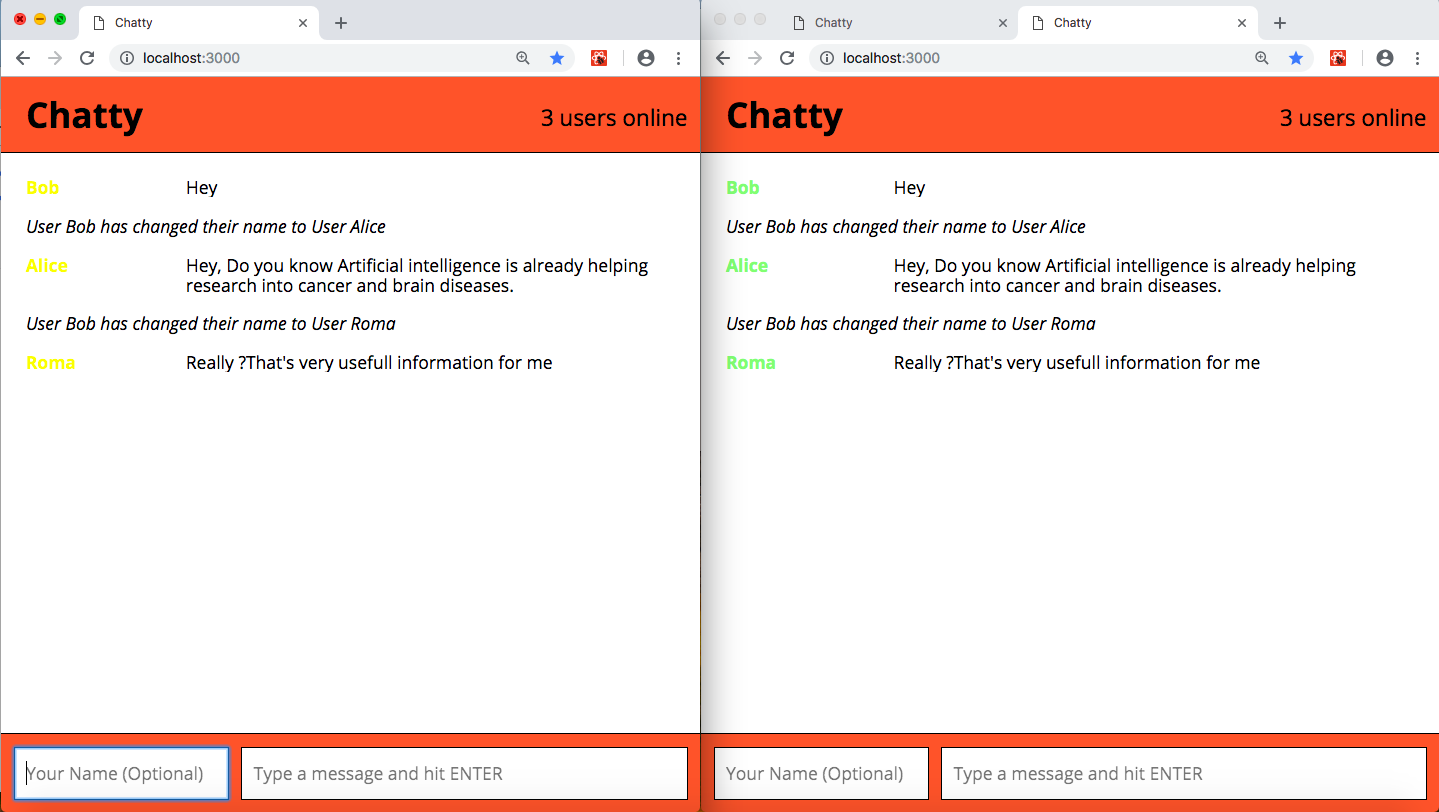
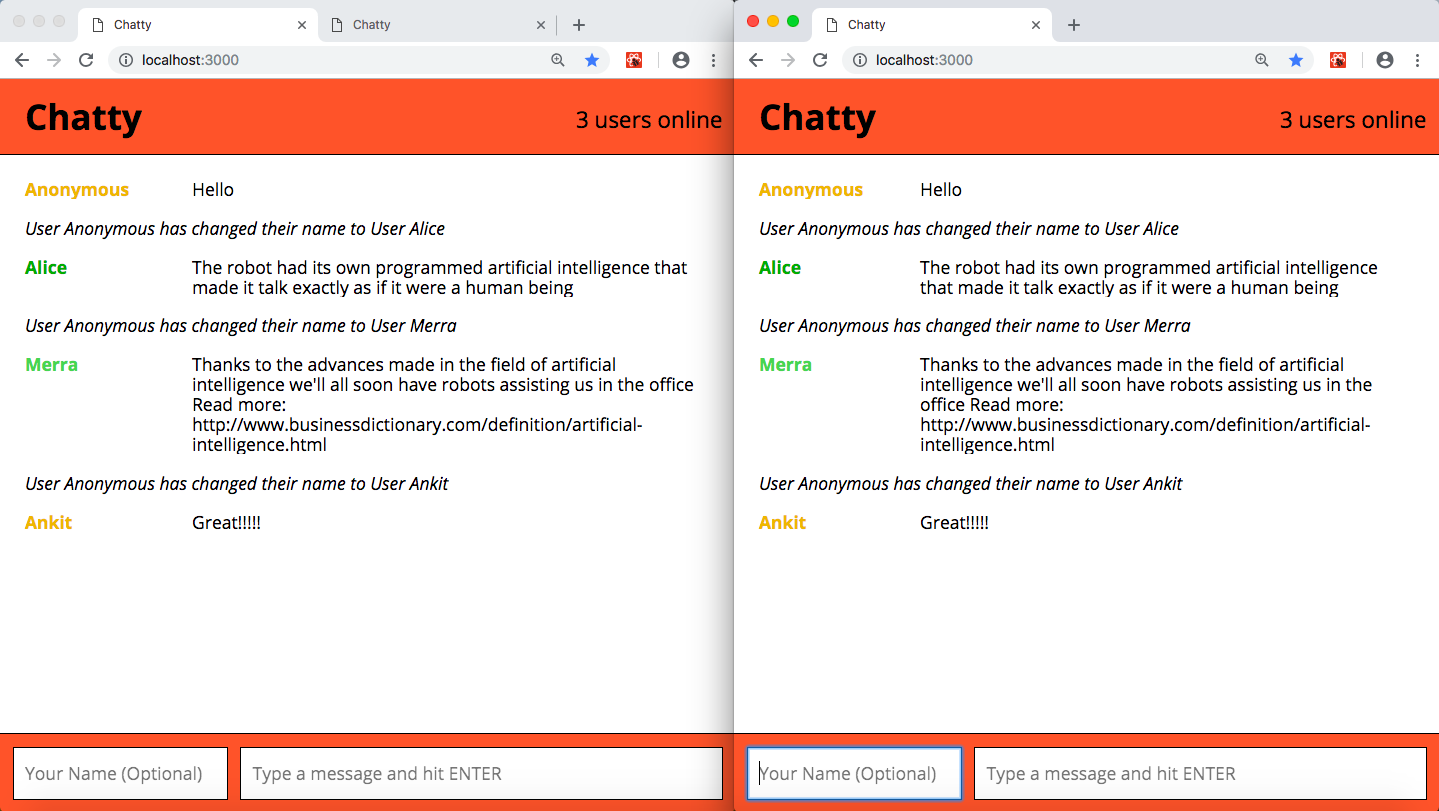
function changed for assign color to each user

Changed region(s): [[0.0, 0.0, 1.0, 1.0], [0.0, 0.5857, 0.3058, 0.6473], [0.0, 0.0, 0.0917, 0.0308]]

diff --git a/src/App.jsx b/src/App.jsx
@@ -7,8 +7,7 @@ class App extends Component {
   constructor(props) {
     super(props);
     this.state = {
-      currentUser: {name:'Bob'},
-      color:'null',
+      currentUser: {name:'Anonymous',color: '#' + Math.floor(Math.random()*16777215).toString(16)},
       messages: [], // messages coming from the server will be stored here as they arrive
       activeUsers: {}
     };
@@ -42,29 +41,26 @@ class App extends Component {
           const notifications = this.state.messages.concat(incomingNotification);
           this.setState({messages:notifications});
           break;
-        case 'color':
-          // Handles color for every user
-          this.setState({color:data.color});
-          break;
         default:
           throw new Error('Unknown event type ' + data.type);
        }
      }
   }
  onNewMessage(msg) {
-   let newMessage = {type:'postMessage',username: msg.username,content: msg.content};
+   let newMessage = {type:'postMessage',color:this.state.currentUser.color,username: msg.username,content: msg.content};
+   // this.setState(newMessage);
    this.socket.send(JSON.stringify(newMessage));
   }
   onNewUser(username) {
-    const notification = {type:'postNotification',content:'User ' + this.state.currentUser.name + ' has changed their name to User ' + username}
+    const notification = {type:'postNotification',color: this.state.currentUser.color,content:'User ' + this.state.currentUser.name + ' has changed their name to User ' + username}
     this.socket.send(JSON.stringify(notification));
-    this.setState({currentUser: {name: username}});
+    this.setState({currentUser: {name: username, color: this.state.currentUser.color }});
   }
   render() {
       return (
         <div>
           <Navbar activeUsers = {this.state.activeUsers} />
-          <MessageList messages={this.state.messages} color = {this.state.color} />
+          <MessageList messages={this.state.messages} />
           <ChatBar currentUser={this.state.currentUser.name}
                   onNewMessage = {this.onNewMessage}
                   onNewUser = {this.onNewUser}/>

diff --git a/chatty_server/server.js b/chatty_server/server.js
@@ -11,7 +11,6 @@ const server = express()
 // Create the WebSockets server
 const wss = new SocketServer({ server });
 let sharedMessage = '';
-let arraycolor = ['#a3fd7f', '#FFFF00', '#800000', '#2980B9'];
 
 wss.broadcast = function broadcast(data) {
   wss.clients.forEach(function each(client) {
@@ -21,14 +20,6 @@ wss.broadcast = function broadcast(data) {
    }
 wss.on('connection', (ws) => {
   console.log('Client connected');
-  let newColor = arraycolor.pop();
-
-  if(!newColor) {
-    arraycolor = ['#a3fd7f', '#FFFF00', '#800000', '#2980B9'];
-    newColor=arraycolor.pop();
-  }
-  const color = {type:'color', color : newColor};
-  ws.send(JSON.stringify(color));
   const activeUsers = {'type':'userCount' ,'count':wss.clients.size};
   sharedMessage = activeUsers;
   wss.broadcast(sharedMessage);
@@ -40,6 +31,7 @@ wss.on('connection', (ws) => {
           data.type = 'incomingMessage';
           data.id =uuidV3();
           sharedMessage=data;
+          console.log(sharedMessage);
           wss.broadcast(sharedMessage);
         break;
         case 'postNotification':

diff --git a/src/MessageList.jsx b/src/MessageList.jsx
@@ -13,7 +13,7 @@ class MessageList extends Component {
             username={message.username}
             content= {message.content}
             key={message.id}
-            color={this.props.color}/>)
+            color={message.color}/>)
          }
       });
     return (
